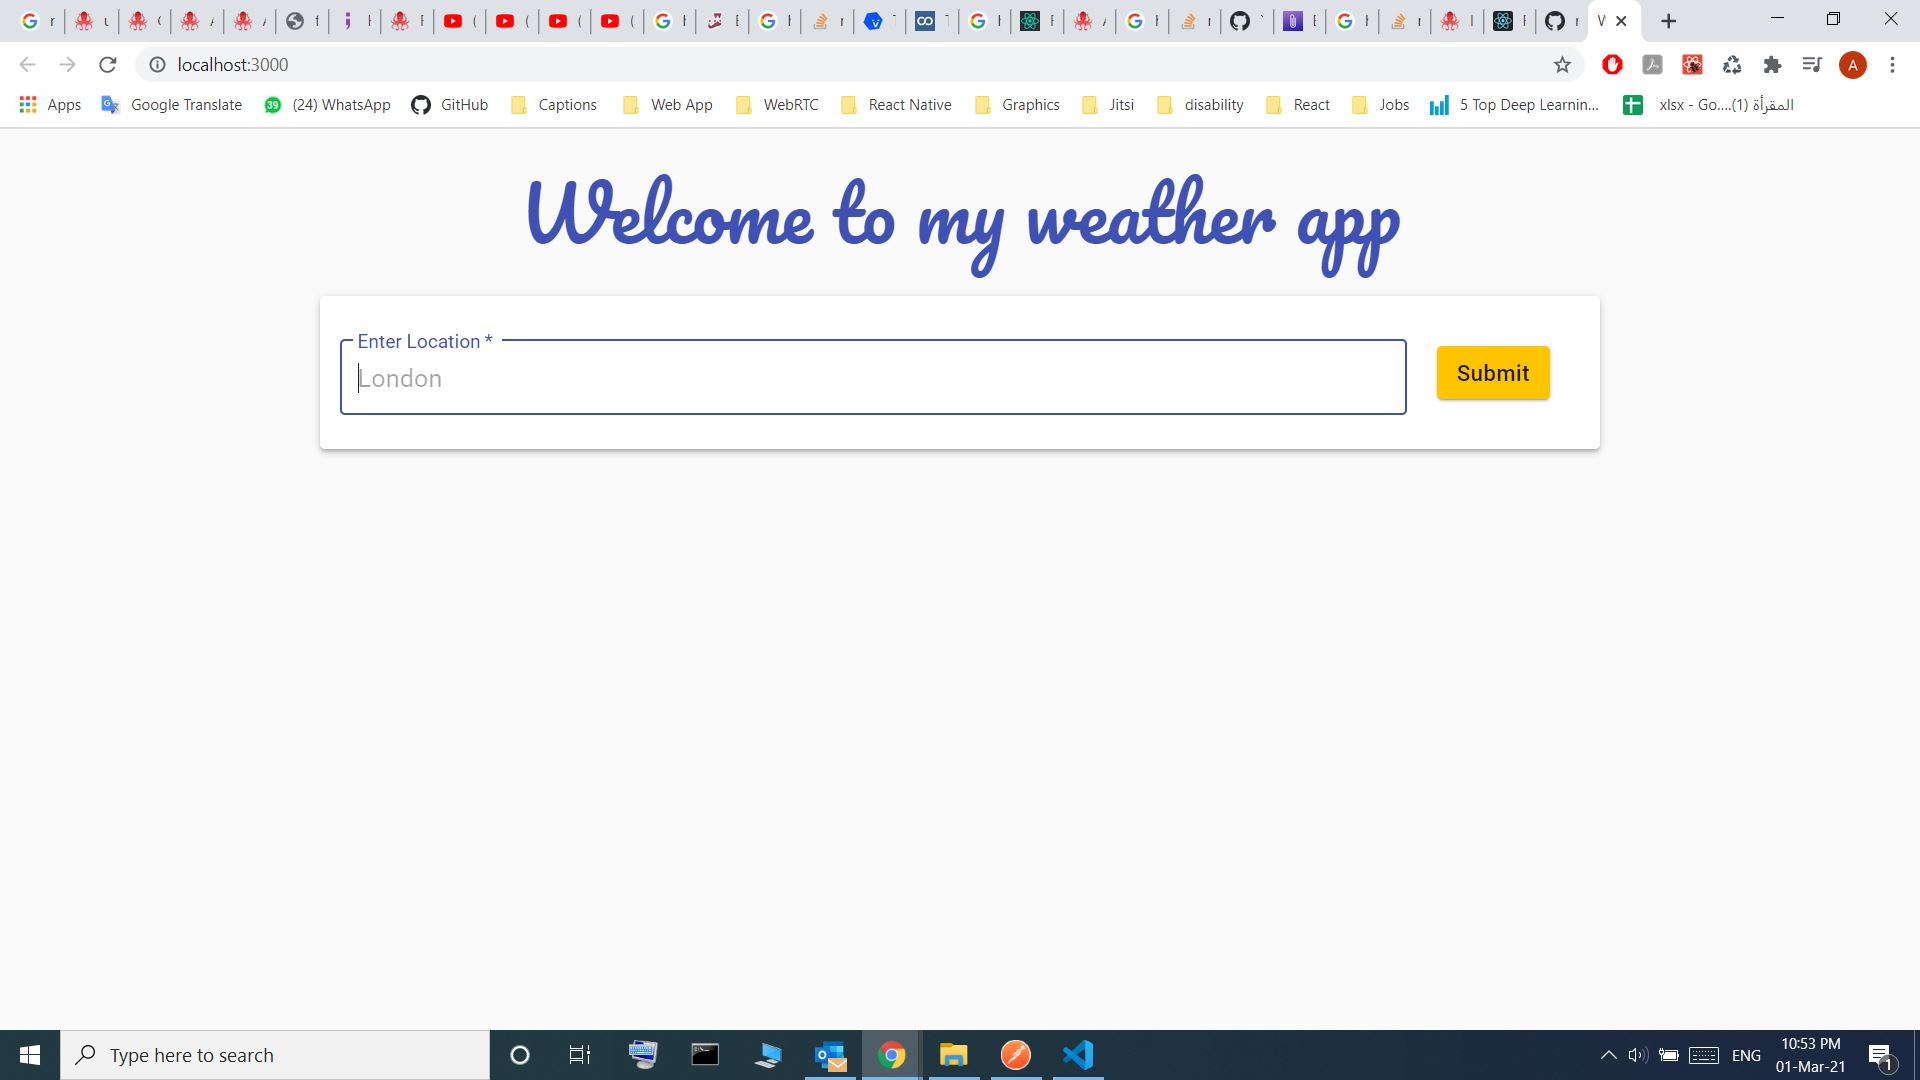
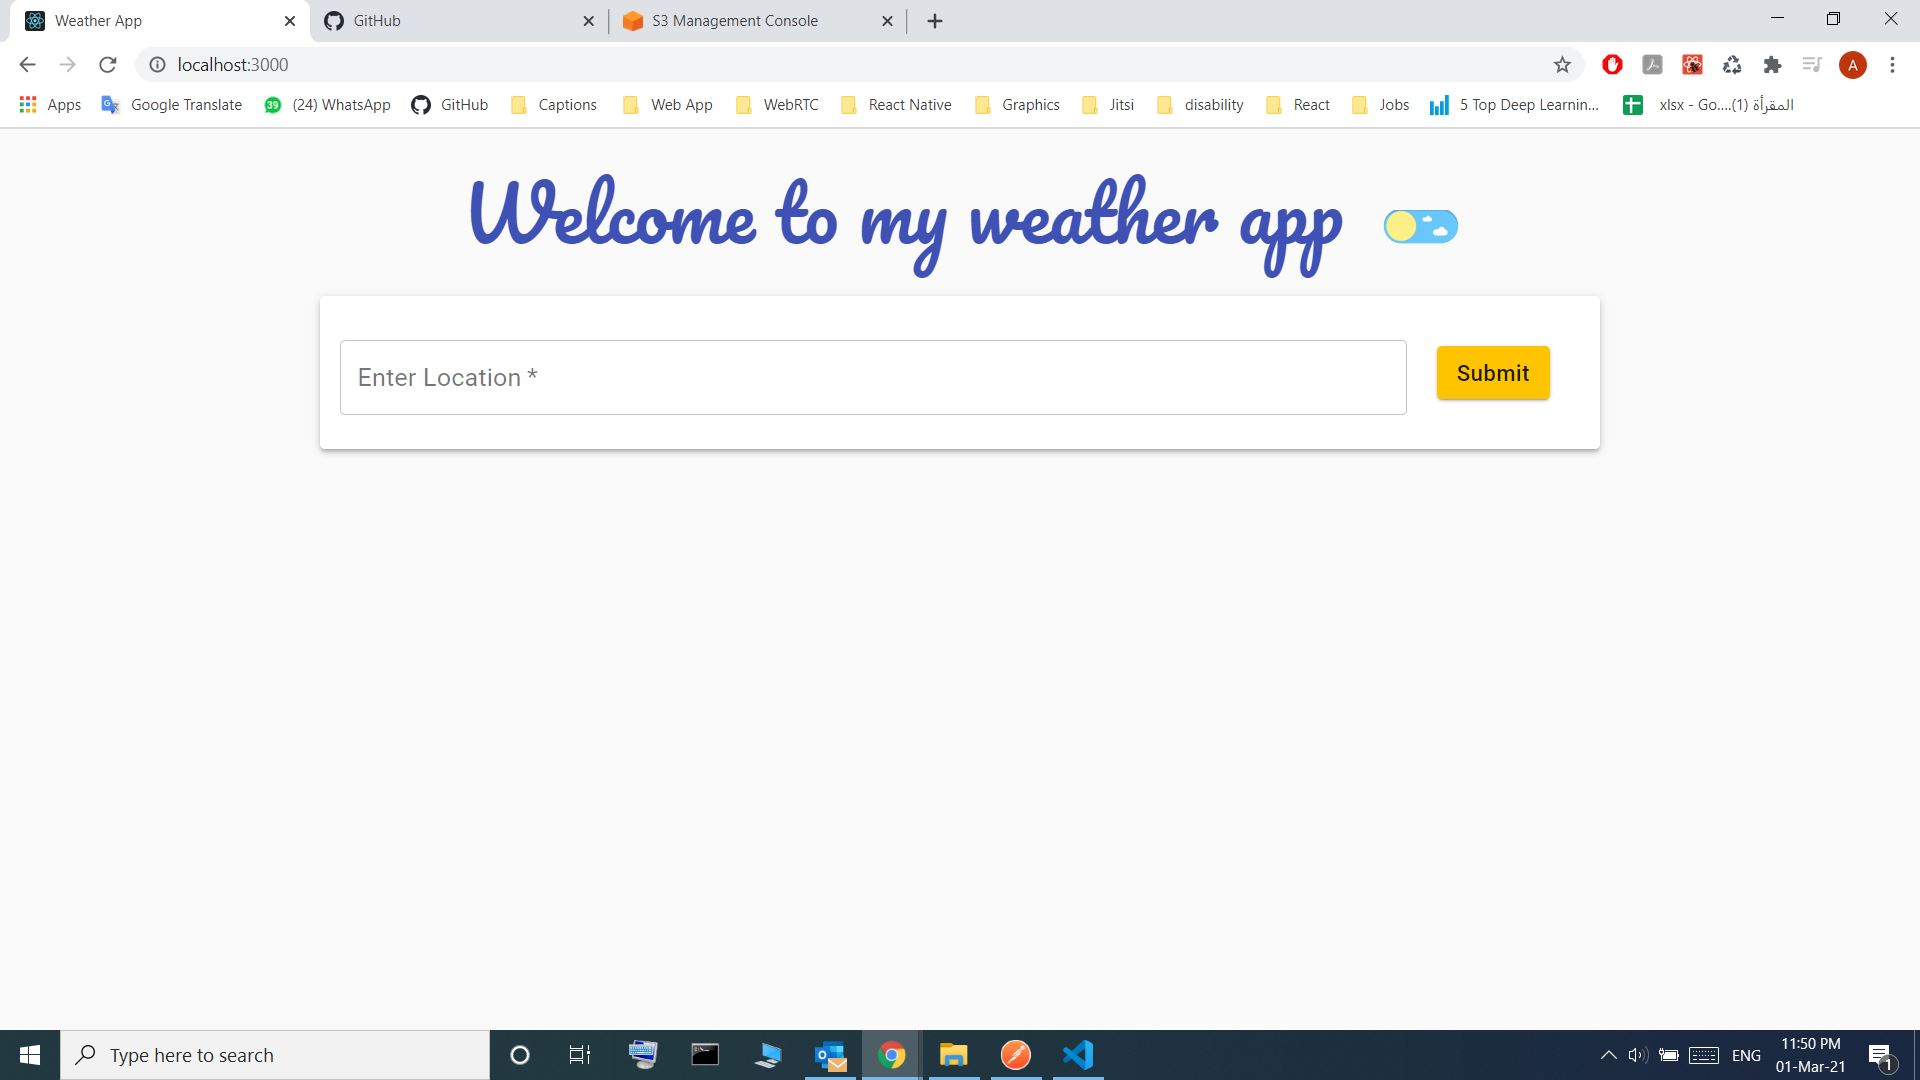
add dark mode

Changed region(s): [[0.2188, 0.1528, 0.7812, 0.275], [0.0, 0.0, 0.875, 0.0611], [0.1875, 0.3056, 0.2812, 0.3667]]

diff --git a/src/components/Dashboard/Dashboard.js b/src/components/Dashboard/Dashboard.js
@@ -1,11 +1,13 @@
-import React, { useState } from 'react';
+import React, { useState, useContext } from 'react';
 import { makeStyles, useTheme } from '@material-ui/core/styles';
 import {
-  Typography, Box, Paper, Grid, CircularProgress,
+  Typography, Box, Paper, Grid, CircularProgress, useMediaQuery,
 } from '@material-ui/core';
+import DarkModeToggle from 'react-dark-mode-toggle';
 import LocationForm from '../LocationForm';
 import WeatherCardContainer from '../WeatherCardContainer';
 import { useAlert } from '../../context/AlertContext';
+import { ThemeContext } from '../../context/ThemeContext';
 
 function Dashboard() {
   const [weather, setWeather] = useState([]);
@@ -13,9 +15,22 @@ function Dashboard() {
 
   const theme = useTheme();
   const { showErrorAlert } = useAlert();
+  const matches = useMediaQuery(theme.breakpoints.up('lg'));
+  const { darkMode, toggleTheme } = useContext(ThemeContext);
+
   const useStyles = makeStyles(() => ({
+    header: {
+      display: 'flex',
+      flexDirection: 'row',
+      justifyContent: 'center',
+      alignItems: 'center',
+    },
     paper: {
       padding: theme.spacing(2),
+    },
+    toggleButton: {
+      marginLeft: theme.spacing(4),
+      marginTop: theme.spacing(3),
     },
     loading: {
       display: 'flex',
@@ -36,8 +51,18 @@ function Dashboard() {
 
   return (
     <div>
-      <Box m={4}>
+      <Box className={classes.header} m={4}>
         <Typography variant="h3" color="primary" style={{ fontFamily: 'Pacifico', textAlign: 'center' }}>Welcome to my weather app</Typography>
+        {
+          matches && (
+          <DarkModeToggle
+            className={classes.toggleButton}
+            onChange={toggleTheme}
+            checked={darkMode}
+            size={60}
+          />
+          )
+        }
       </Box>
       <Grid container>
         <Grid item xs={12} sm={1} lg={2} />

diff --git a/src/components/WeatherCardContainer/WeatherCardContainer.js b/src/components/WeatherCardContainer/WeatherCardContainer.js
@@ -1,18 +1,18 @@
 import React from 'react';
 import PropTypes from 'prop-types';
-import { Grid, Grow } from '@material-ui/core';
+import { Grid, Zoom } from '@material-ui/core';
 import WeatherCard from '../WeatherCard';
 
 function WeatherCardContainer({ weather }) {
   return (
     <>
       <Grid container spacing={2} data-testid="weather-container">
-        {weather.map((dayWeather) => (
-          <Grow key={dayWeather.day} in>
+        {weather.map((dayWeather, i) => (
+          <Zoom key={dayWeather.day} style={{ transitionDelay: `${i * 400}ms` }} in>
             <Grid item xs={12} sm={6} lg={3} data-testid="weather-item">
               <WeatherCard dayWeather={dayWeather} />
             </Grid>
-          </Grow>
+          </Zoom>
         ))}
       </Grid>
     </>

diff --git a/README.md b/README.md
@@ -6,8 +6,8 @@ is able to display almost all cities in the world. It displays a general descrip
 The application is connected to metaweather api. It uses two different apis. One to get location information and the other is to get weather information. Since metaweather api doesn't support CORS, the application hits a node server deployed on heroku, which in turn does all the api requests. The node server is using express and axios.
 
 # How can I run it ?
-run app => npm start
-run tests => npm test
+* run app => npm start
+* run tests => npm test
 
 # Built with
 
